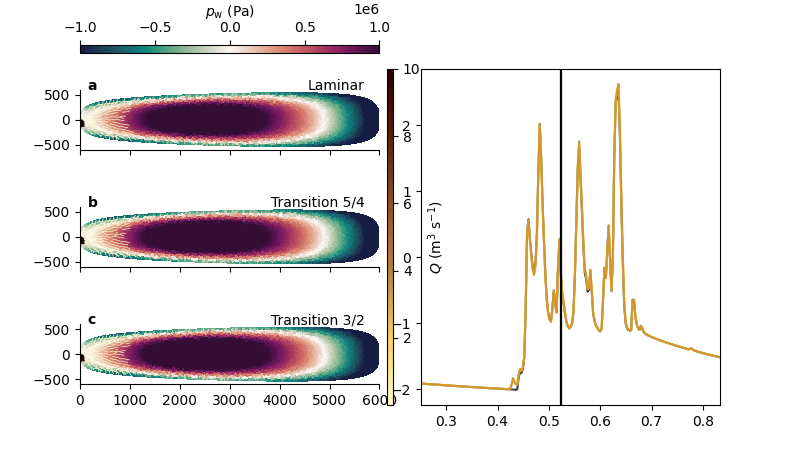
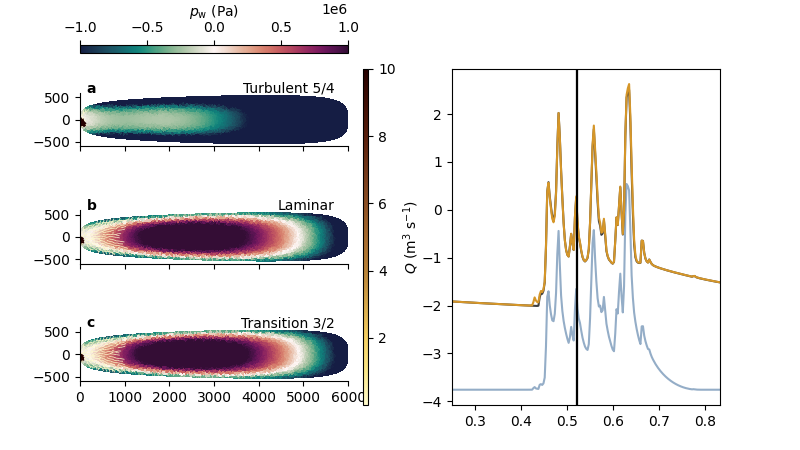
Turb, Lam, Trans plot

diff --git a/glads/S03_valley/analysis/compare_seasonal.py b/glads/S03_valley/analysis/compare_seasonal.py
@@ -34,11 +34,11 @@ def compare_seasonal(fnames, figname, labels, vmin=-1e6, vmax=1e6,
     hratios = 100*np.ones(n_cases+1)
     hratios[0] = 8
     gs = gridspec.GridSpec(n_cases+1, 4,
-        width_ratios=[100, 2, 4, 100],
+        width_ratios=[100, 2, 20, 100],
         height_ratios=hratios,
         left=0.1, right=0.9,
         top=0.9, bottom=0.1,
-        wspace=0.05)
+        wspace=0.1)
     axs = [fig.add_subplot(gs[i+1, 0]) for i in range(n_cases)]
     tax = fig.add_subplot(gs[1:, 3])
     cax_top = fig.add_subplot(gs[0, 0])
@@ -121,12 +121,12 @@ def compare_seasonal(fnames, figname, labels, vmin=-1e6, vmax=1e6,
     fig.savefig(figname)
 
 if __name__=='__main__':
-    cases = [3, 4, 5]
-    labels = ['Laminar', 'Transition 5/4', 'Transition 3/2']
+    cases = [101, 103, 105]
+    labels = ['Turbulent 5/4', 'Laminar', 'Transition 3/2']
     fpattern = '../RUN/output_%03d_seasonal.nc'
     fnames = [fpattern % caseid for caseid in cases]
-    figname = 'seasonal_valley.png'
+    figname = 'seasonal_valley_100.png'
     compare_seasonal(fnames, figname, labels,
-        colors=colors[np.array([2, 3, 4]), :])
+        colors=colors[np.array([0, 2, 4]), :])
 
 plt.show()

diff --git a/glads/S03_valley/analysis/plot_steady.py b/glads/S03_valley/analysis/plot_steady.py
@@ -7,8 +7,8 @@ import cmocean
 
 import GladsPlot as gplt
 
-case = 103
-out = nc.Dataset('../RUN/output_%d_steady.nc' % (case))
+case = 3
+out = nc.Dataset('../RUN/output_03%d_steady.nc' % (case))
 
 connect = out['connect'][:].data.T - 1
 nodes = out['nodes'][:].data.T
